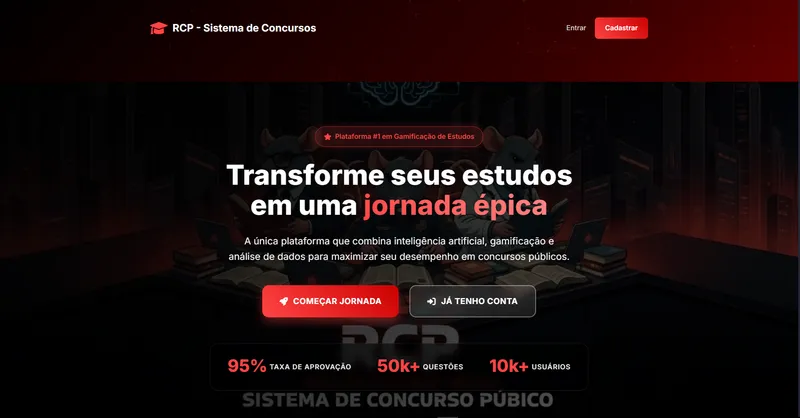
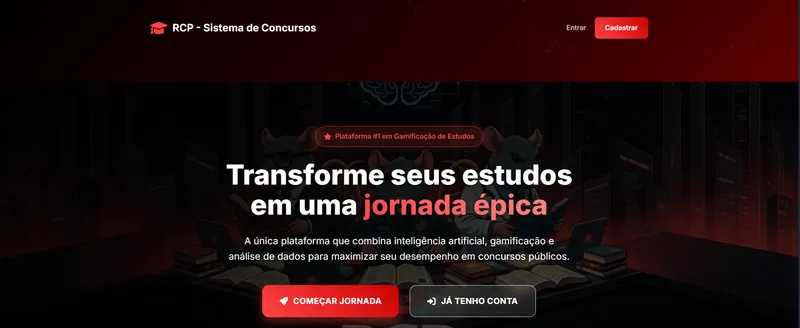
feat(projetos): App Vitale com mockups e RCP sem números fictícios
- Novo card "App Vitale — Gestão de Pilates" (PT/EN) com imagem única
  das telas de login, aluno e instrutora (src/assets/projects/vitale.webp).
- Projetos sem repositório público mostram "Projeto para cliente ·
  código privado" no lugar do botão do GitHub; o overlay só aparece
  quando há link.
- Imagem do RCP recortada sem a faixa de números ilustrativos
  (taxa de aprovação, questões e usuários), já que o projeto não está
  no ar.
- Teste E2E para o card de projeto privado (43 no total).

diff --git a/src/components/ui/ProjectCard.jsx b/src/components/ui/ProjectCard.jsx
@@ -5,6 +5,7 @@ import { useLocale } from '../../i18n/context';
 const ProjectCard = ({ project }) => {
     const { title, description, image, imageAlt, tech, repo, demo } = project;
     const { t } = useLocale();
+    const primaryLink = demo ?? repo;
 
     return (
         <Tilt className="tilt-card-wrapper" max={10} scale={1.03}>
@@ -19,21 +20,27 @@ const ProjectCard = ({ project }) => {
                         loading="lazy"
                         decoding="async"
                     />
-                    {/* Atalho visual no hover; fora da ordem do Tab porque duplica o link "Ver no GitHub" abaixo */}
-                    <div className="project-overlay" aria-hidden="true">
-                        <a href={demo ?? repo} target="_blank" rel="noopener noreferrer" className="project-link-overlay" tabIndex={-1}>
-                            {t.projects.overlay}
-                        </a>
-                    </div>
+                    {/* Atalho visual no hover; fora da ordem do Tab porque duplica os links abaixo */}
+                    {primaryLink && (
+                        <div className="project-overlay" aria-hidden="true">
+                            <a href={primaryLink} target="_blank" rel="noopener noreferrer" className="project-link-overlay" tabIndex={-1}>
+                                {t.projects.overlay}
+                            </a>
+                        </div>
+                    )}
                 </div>
                 <div className="project-info">
                     <h3>{title}</h3>
                     <TechTags items={tech} />
                     <p>{description}</p>
                     <div className="project-links">
-                        <a href={repo} target="_blank" rel="noopener noreferrer" className="project-link">
-                            {t.projects.repo} &rarr;
-                        </a>
+                        {repo ? (
+                            <a href={repo} target="_blank" rel="noopener noreferrer" className="project-link">
+                                {t.projects.repo} &rarr;
+                            </a>
+                        ) : (
+                            <span className="project-private">{t.projects.privateCode}</span>
+                        )}
                         {demo && (
                             <a href={demo} target="_blank" rel="noopener noreferrer" className="project-link">
                                 {t.projects.demo} &rarr;

diff --git a/src/data/projects.js b/src/data/projects.js
@@ -1,9 +1,16 @@
+import vitaleImg from '../assets/projects/vitale.webp';
 import rcpImg from '../assets/projects/rcp.webp';
 import expenseImg from '../assets/projects/expense-control.webp';
 import linkthreeImg from '../assets/projects/linkthree.webp';
 import videoImg from '../assets/projects/video-analyzer.webp';
 
 const items = [
+    {
+        id: 'vitale',
+        image: vitaleImg,
+        tech: ['React Native', 'Expo', 'TypeScript', 'Supabase', 'PostgreSQL'],
+        // Projeto para cliente: sem repositório público
+    },
     {
         id: 'rcp',
         image: rcpImg,
@@ -33,6 +40,11 @@ const items = [
 
 const text = {
     pt: {
+        vitale: {
+            title: 'App Vitale — Gestão de Pilates',
+            description: 'App mobile para Android e iOS de um estúdio de pilates, com áreas para alunos e instrutores: agenda e reserva de aulas, treinos e login com Google. Monorepo em TypeScript com controle de acesso por perfil, Row Level Security no Supabase e testes E2E com Playwright e Appium.',
+            imageAlt: 'Mockups do App Vitale: tela de login, início do aluno e início da instrutora',
+        },
         rcp: {
             title: 'RCP — Sistema de Concursos',
             description: 'Plataforma SaaS para candidatos a concursos públicos: rotina de estudos personalizada, simulados interativos e dashboard de desempenho com gamificação. Backend com autenticação, gestão de simulados e registro de progresso.',
@@ -55,6 +67,11 @@ const text = {
         },
     },
     en: {
+        vitale: {
+            title: 'Vitale App — Pilates Studio Management',
+            description: 'Android and iOS mobile app for a Pilates studio, with areas for students and instructors: class schedule and booking, workouts and Google sign-in. TypeScript monorepo with role-based access control, Row Level Security on Supabase and E2E tests with Playwright and Appium.',
+            imageAlt: 'Vitale App mockups: login screen, student home and instructor home',
+        },
         rcp: {
             title: 'RCP — Exam Prep Platform',
             description: 'SaaS platform for candidates preparing for Brazilian public service exams: personalized study routines, interactive mock exams and a gamified performance dashboard. Backend with authentication, mock exam management and progress tracking.',

diff --git a/e2e/portfolio.spec.js b/e2e/portfolio.spec.js
@@ -99,6 +99,16 @@ test.describe('navegação', () => {
     });
 });
 
+test.describe('projetos', () => {
+    test('projeto de cliente sem repositório público mostra aviso em vez do GitHub', async ({ page }) => {
+        await page.goto('/');
+        const card = page.locator('.project-card', { hasText: 'App Vitale' });
+        await expect(card).toContainText('Projeto para cliente · código privado');
+        await expect(card.getByRole('link', { name: /Ver no GitHub/ })).toHaveCount(0);
+        await expect(card.locator('img')).toHaveAttribute('alt', /Mockups do App Vitale/);
+    });
+});
+
 test.describe('habilidades', () => {
     test('filtro por categoria mostra só os itens da categoria', async ({ page }) => {
         await page.goto('/');

diff --git a/src/i18n/strings.js b/src/i18n/strings.js
@@ -30,6 +30,7 @@ export const strings = {
             repo: 'Ver no GitHub',
             demo: 'Ver site',
             overlay: 'Ver Projeto',
+            privateCode: 'Projeto para cliente · código privado',
         },
         skills: {
             title: 'Habilidades & Tecnologias',
@@ -97,6 +98,7 @@ export const strings = {
             repo: 'View on GitHub',
             demo: 'Visit site',
             overlay: 'View Project',
+            privateCode: 'Client project · private code',
         },
         skills: {
             title: 'Skills & Technologies',

diff --git a/src/components/sections/Projects.css b/src/components/sections/Projects.css
@@ -122,6 +122,18 @@
     transition: all 0.3s ease;
 }
 
+.project-private {
+    display: inline-flex;
+    align-items: center;
+    min-height: 40px;
+    padding: 0 1rem;
+    border: 1px dashed var(--border-color);
+    border-radius: 8px;
+    color: var(--text-secondary);
+    font-size: 0.85rem;
+    font-weight: 500;
+}
+
 .project-link:hover {
     background: var(--accent-strong);
     color: #fff;
